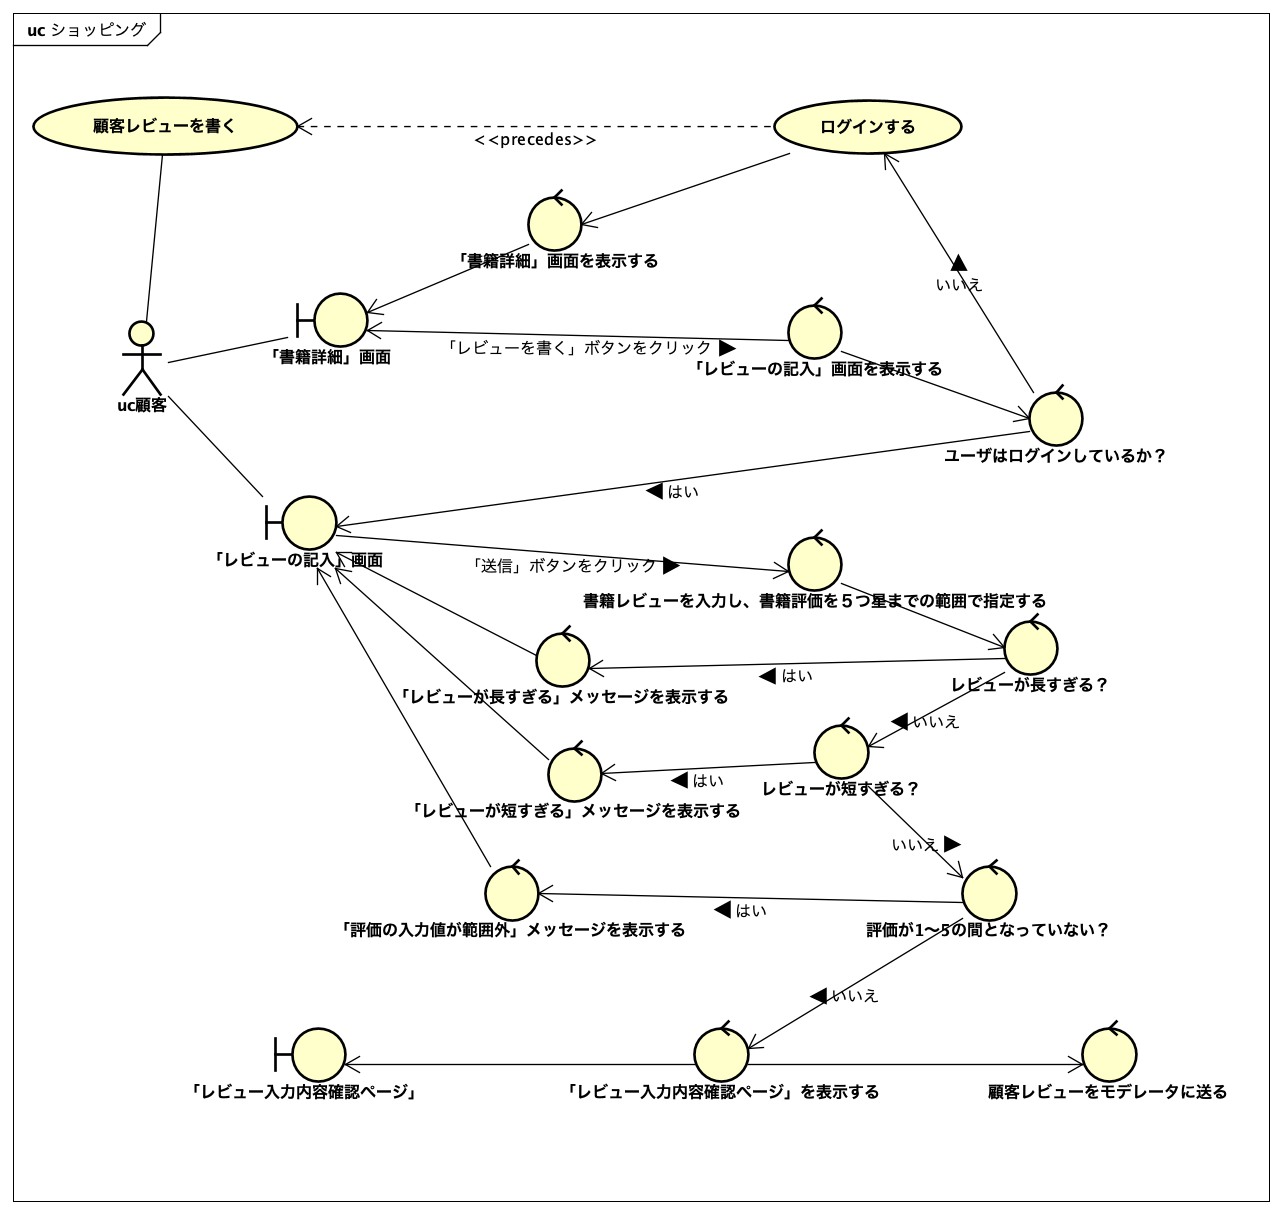
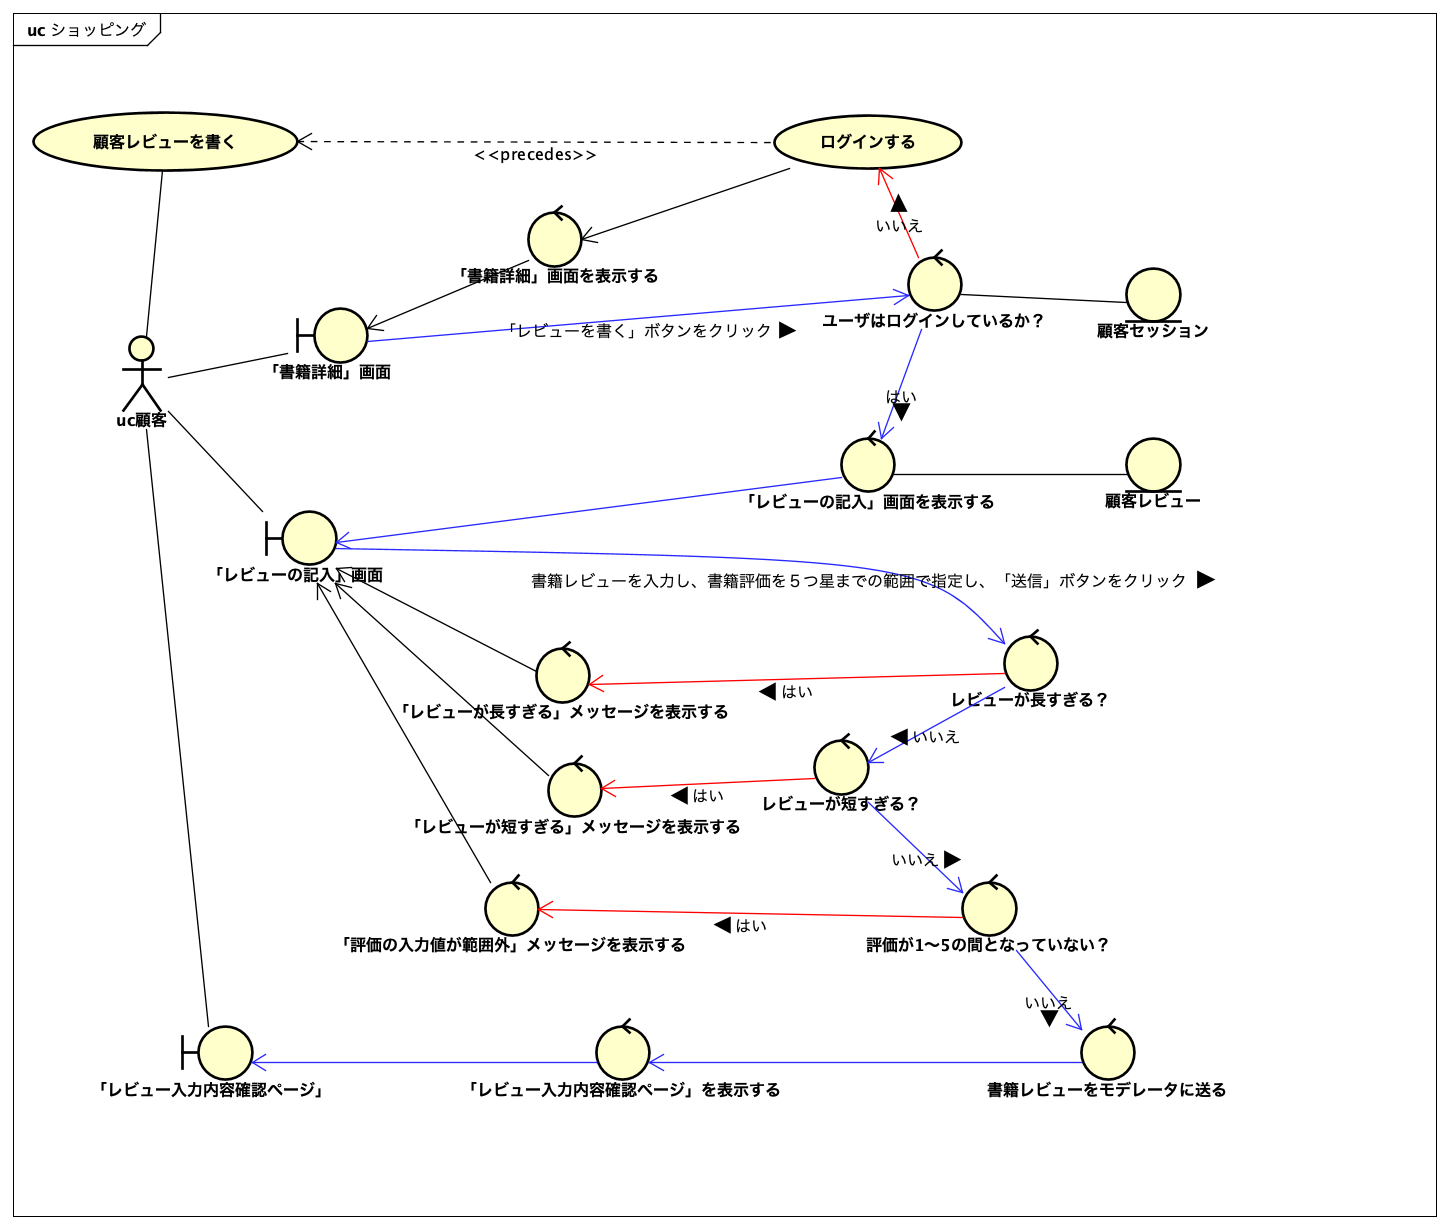
書籍「ユースケース駆動開発実践ガイド」の図5.19までの内容を、「概念モデル図」およびユースケース「顧客レビューを書く」のそれぞれに関連するドキュメントへ反映した。

diff --git a/docs/BookShop/Shopping/顧客レビューを書く.md b/docs/BookShop/Shopping/顧客レビューを書く.md
@@ -14,9 +14,9 @@
 - ユーザーがログインしていない
   - ユーザーはまずログイン画面を表示し、ログインしてからもう一度「レビューの記入」画面に遷移する。
 - ユーザーが書いたレビューが長過ぎる（1MBより長い文章）
-  - システムはレビューを拒絶し、レビューが拒絶された理由を説明するメッセージを表示する。
+  - システムはレビューを拒絶し、レビューが拒絶された理由を説明するメッセージを「レビューの記入」画面で表示する。
 - レビューが短すぎる（10文字未満の文章）
-  - システムはレビューを拒絶し、レビューが拒絶された理由を説明するメッセージを表示する。
+  - システムはレビューを拒絶し、レビューが拒絶された理由を説明するメッセージを「レビューの記入」画面で表示する。
 - 書籍評価が1～5の間になっていない
-  - システムはレビューを拒絶し、レビューが拒絶された理由を説明するメッセージを表示する。
+  - システムはレビューを拒絶し、レビューが拒絶された理由を説明するメッセージを「レビューの記入」画面で表示する。
 
